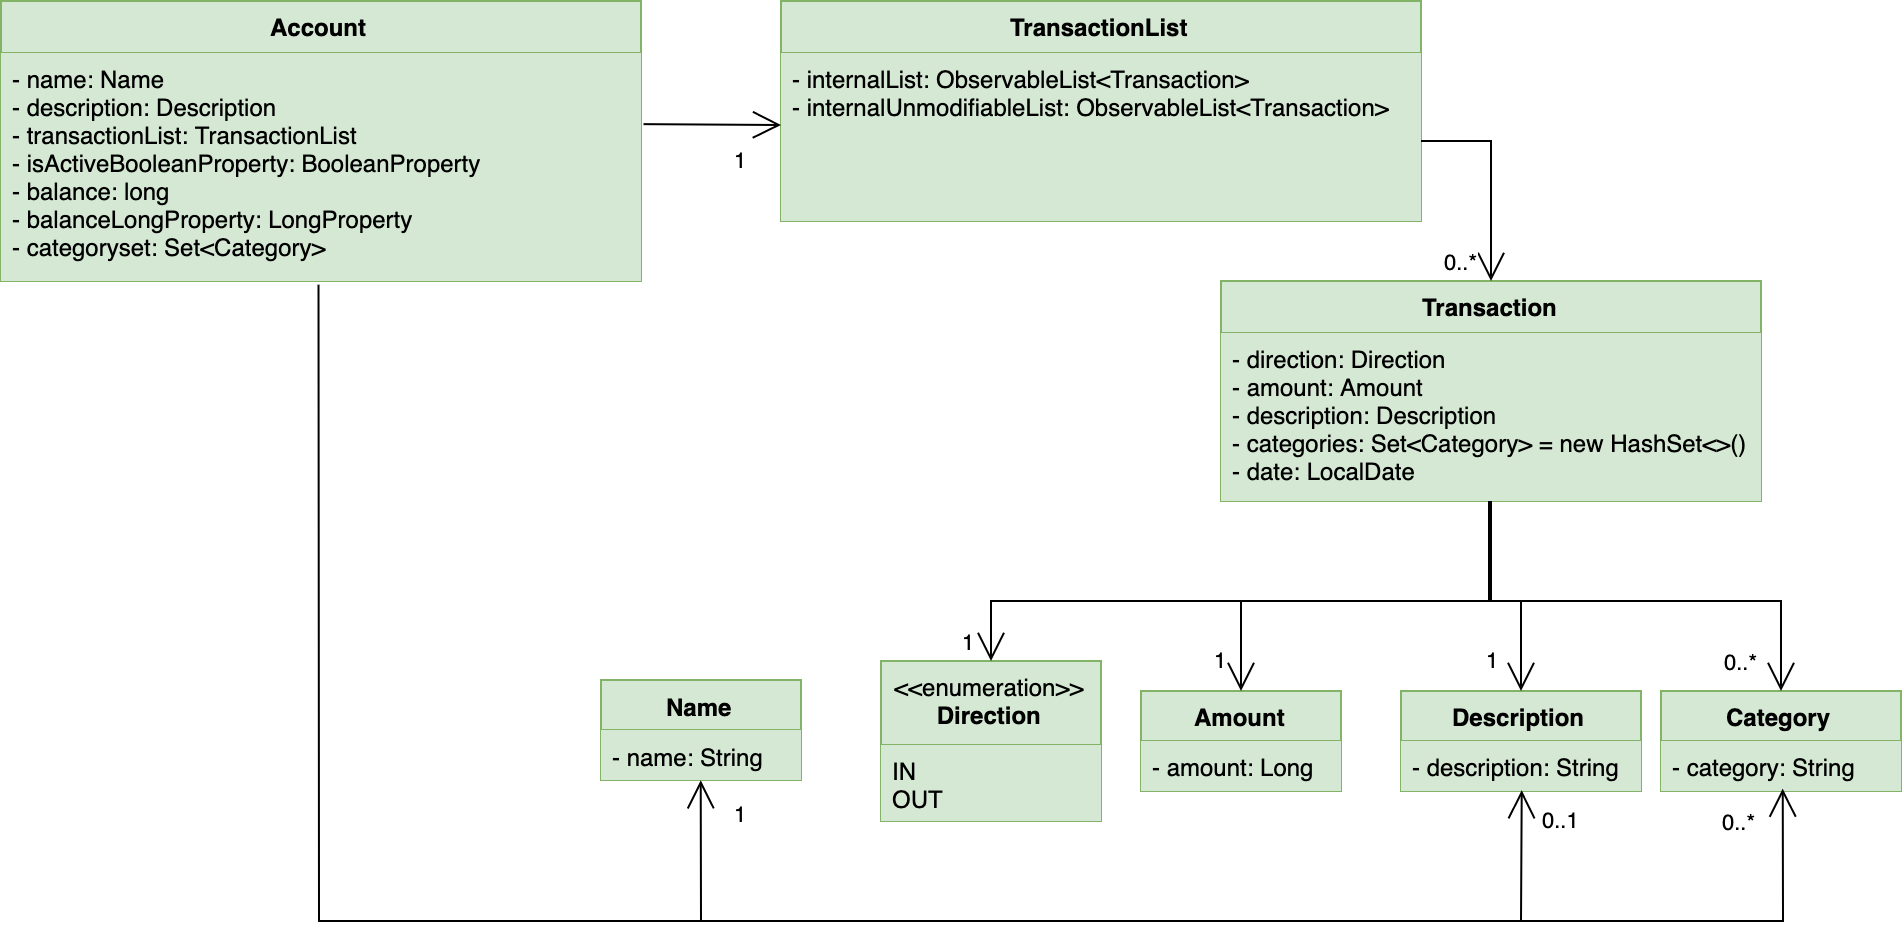
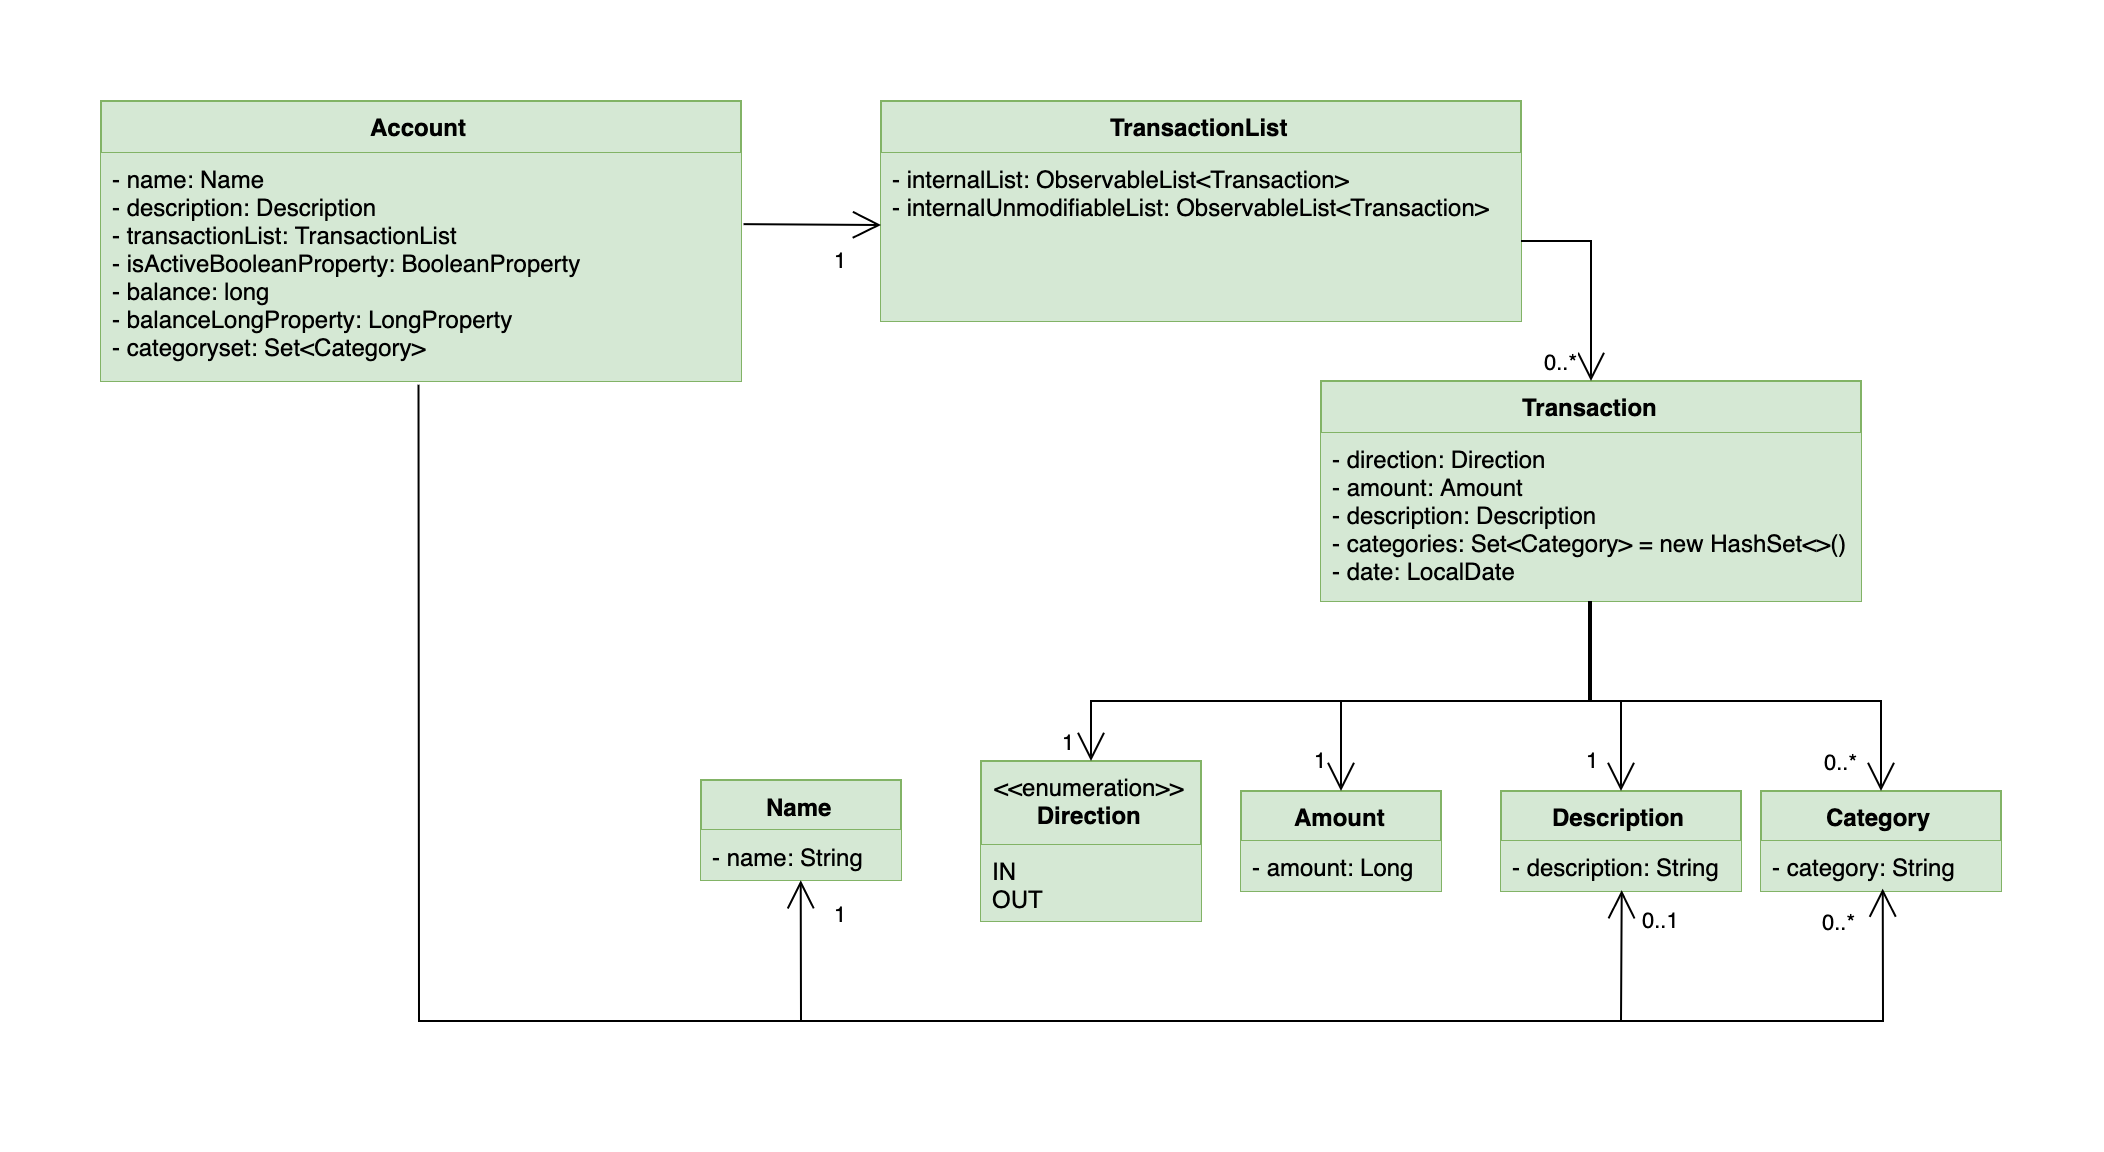
update DG for transactions, remove redundant exception catching from TransactionEditCommand, add check to TransactionListCommandParser

Changed region(s): [[0.0, 0.0, 0.9296, 0.5483], [0.2169, 0.5788, 1.0, 0.9139], [0.3099, 0.6702, 0.4338, 0.8529]]

diff --git a/src/main/java/budgetbuddy/logic/commands/transactioncommands/TransactionEditCommand.java b/src/main/java/budgetbuddy/logic/commands/transactioncommands/TransactionEditCommand.java
@@ -32,7 +32,6 @@ import budgetbuddy.model.attributes.Description;
 import budgetbuddy.model.attributes.Direction;
 import budgetbuddy.model.attributes.Name;
 import budgetbuddy.model.transaction.Transaction;
-import budgetbuddy.model.transaction.exceptions.TransactionNotFoundException;
 import javafx.collections.ObservableList;
 
 /**
@@ -109,8 +108,6 @@ public class TransactionEditCommand extends ScriptCommand {
             RuleEngine.executeRules(model, scriptEngine, updatedTxnIndex, targetAccount);
             model.getAccountsManager().setActiveAccount(targetAccount);
 
-        } catch (TransactionNotFoundException e) {
-            throw new CommandException(MESSAGE_FAILURE);
         } catch (IndexOutOfBoundsException e) {
             throw new CommandException(MESSAGE_INVALID_DISPLAYED_INDEX);
         }

diff --git a/src/main/java/budgetbuddy/logic/parser/commandparsers/transactioncommandparsers/TransactionListCommandParser.java b/src/main/java/budgetbuddy/logic/parser/commandparsers/transactioncommandparsers/TransactionListCommandParser.java
@@ -95,6 +95,12 @@ public class TransactionListCommandParser implements CommandParser {
             }
         }
 
+        if (optionalFromAmount.isPresent() && optionalUntil.isPresent()) {
+            if (!optionalFromAmount.get().lessThanEquals(optionalUntilAmount.get())) {
+                throw new ParseException("The minimum amount cannot be greater than the maximum amount.");
+            }
+        }
+
         return new TransactionListCommand(new TransactionMatchesConditionsPredicate(categoryList,
                 optionalFrom, optionalUntil, optionalFromAmount, optionalUntilAmount, optionalDescription),
                 optionalTransactionComparator);
